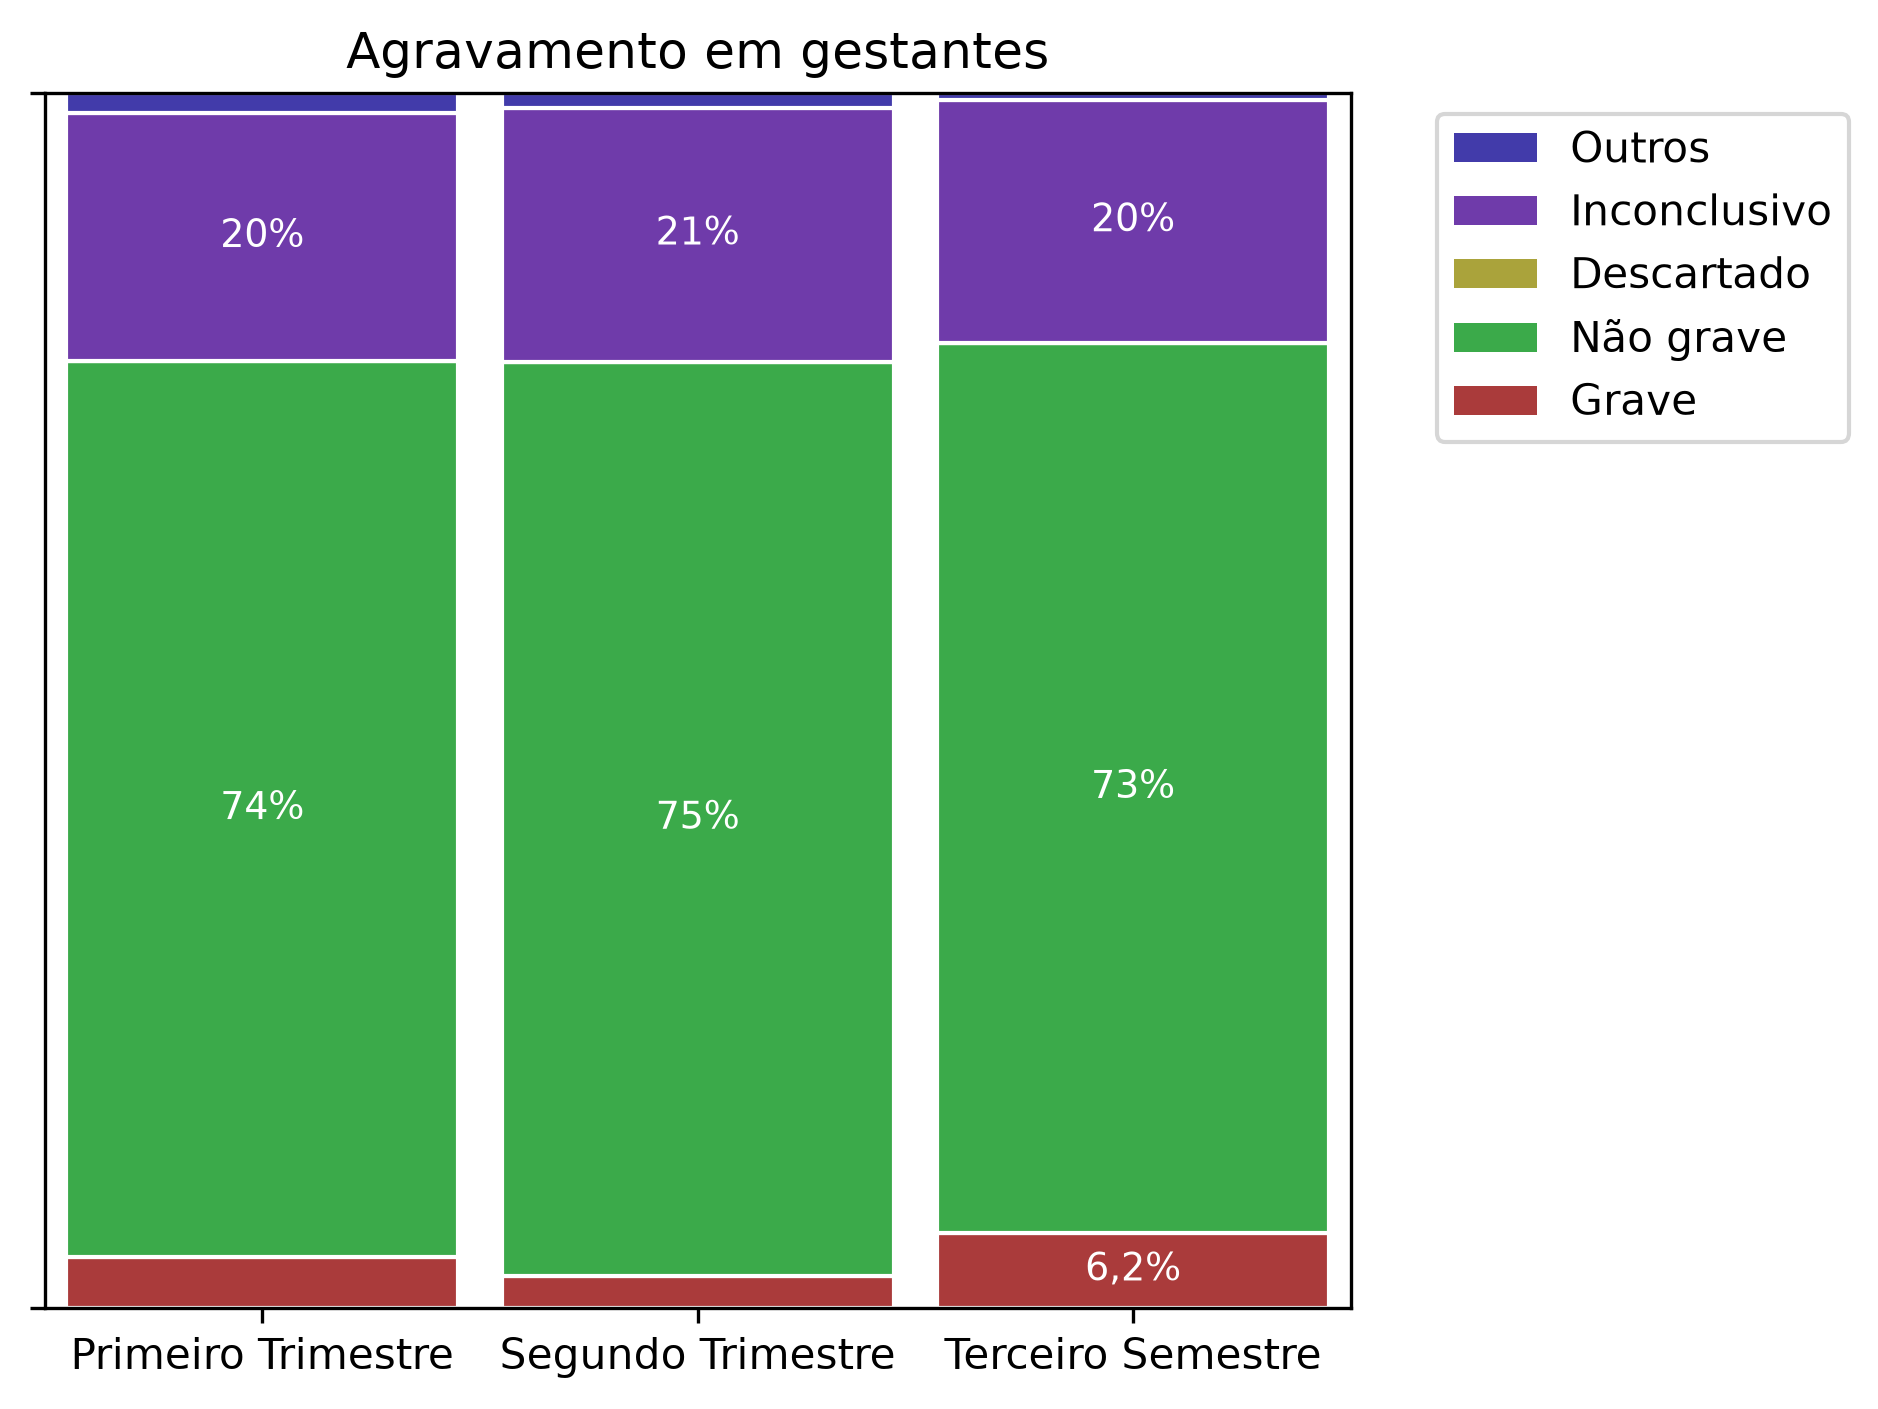
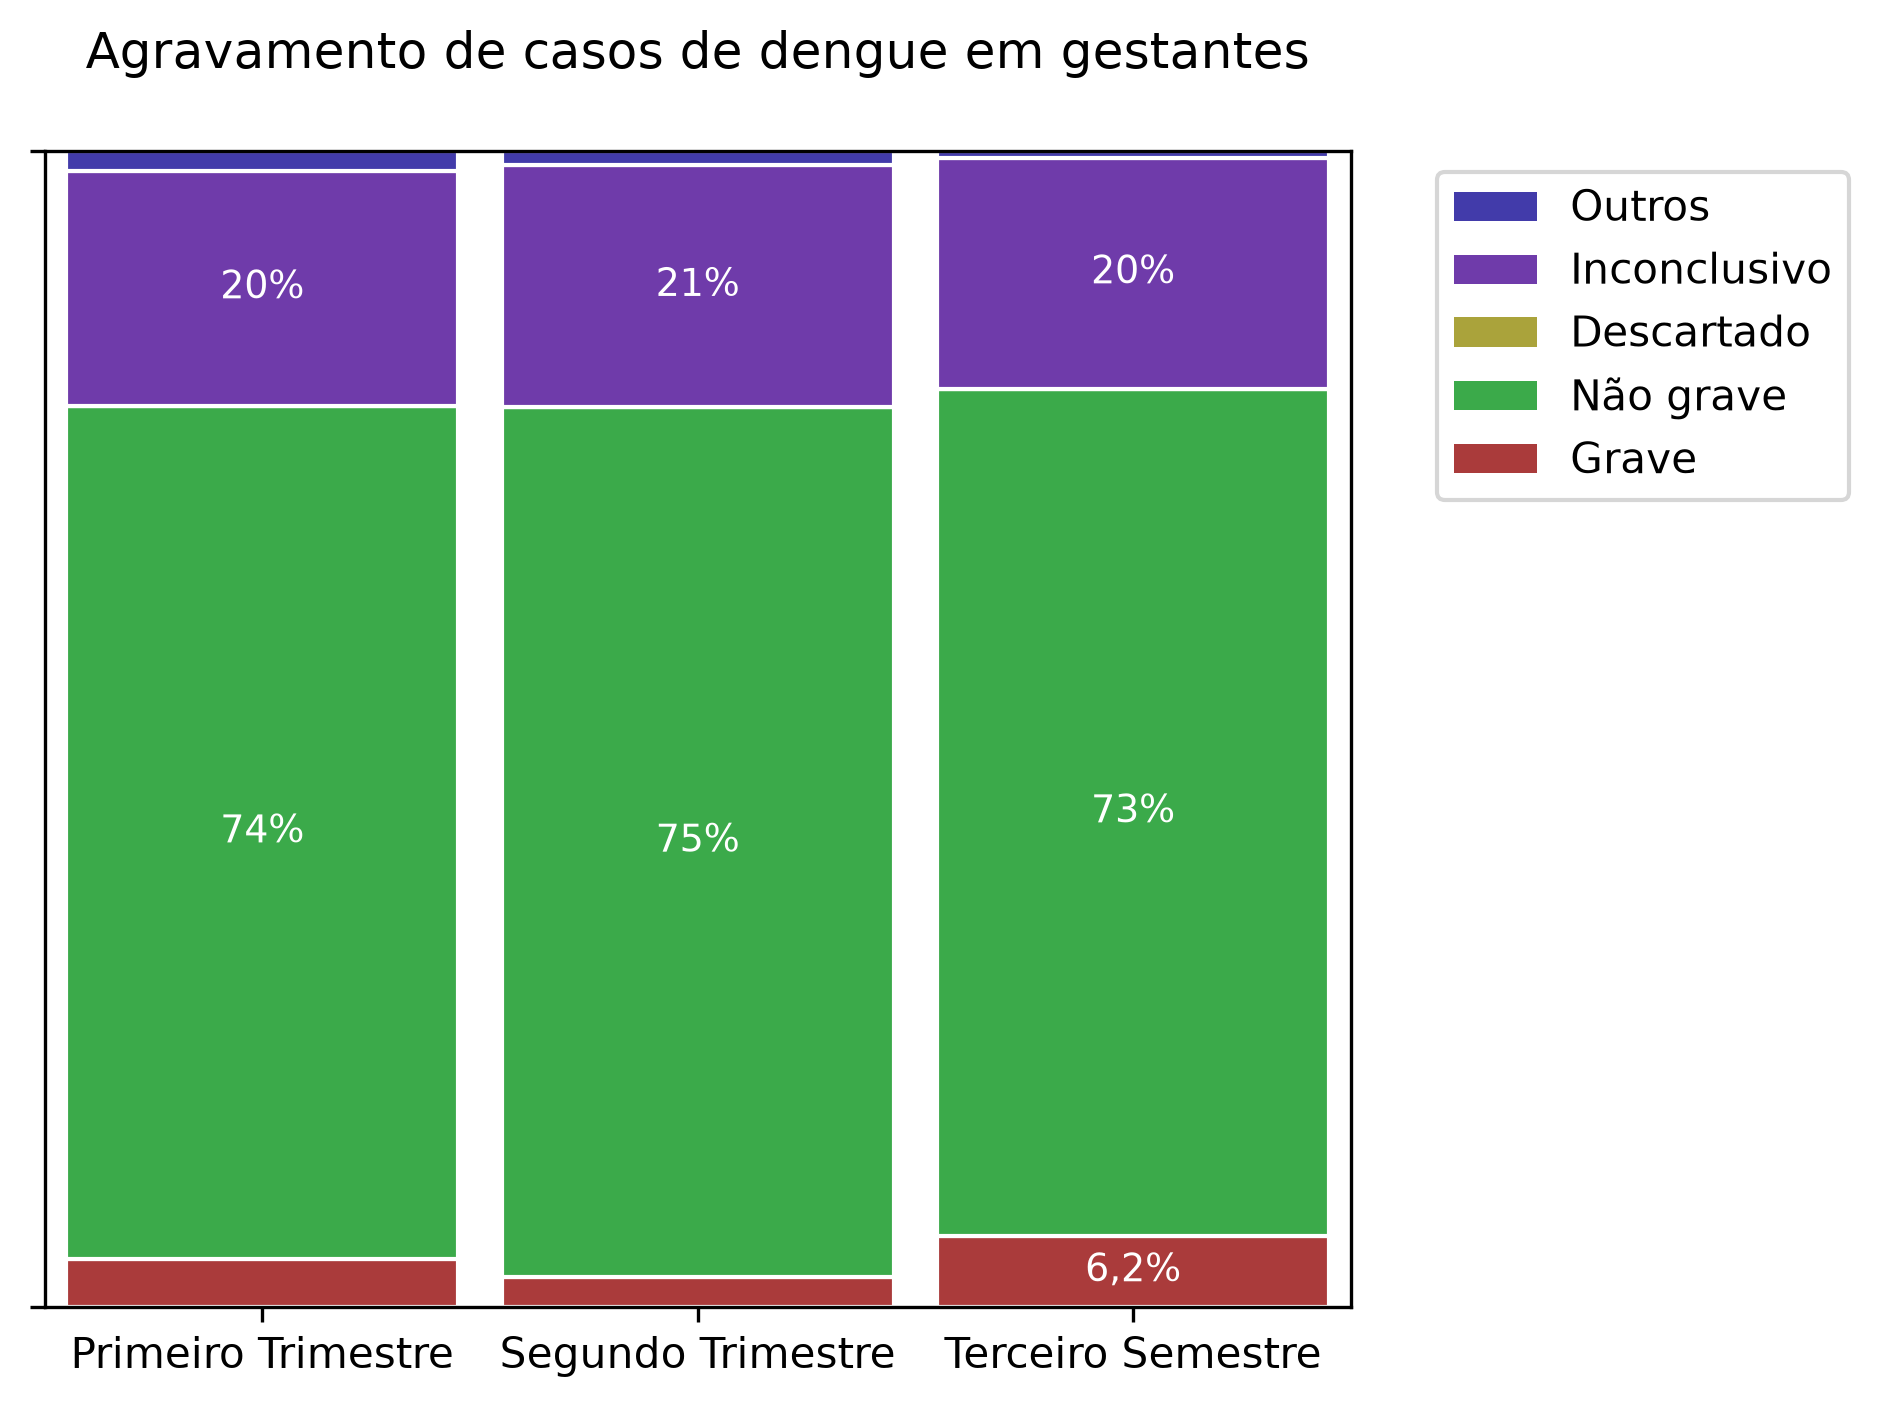
Mudanças nos títulos e eixos

diff --git a/visualizations.py b/visualizations.py
@@ -4,7 +4,7 @@ from matplotlib.patches import Patch
 from matplotlib.colors import to_rgb
 
 
-def diverging_bar_chart(titulo, dados_categoria_a, rotulo_a, cor_a, contagem_total_a, dados_categoria_b, rotulo_b, cor_b, contagem_total_b, intervalos, categorias, rotulo_eixo_y, arquivo = None):
+def diverging_bar_chart(titulo, dados_categoria_a, rotulo_a, cor_a, contagem_total_a, dados_categoria_b, rotulo_b, cor_b, contagem_total_b, categorias, arquivo = None):
 
     maior_valor = min(dados_categoria_a + dados_categoria_b)
     menor_valor = max(dados_categoria_a + dados_categoria_b)
@@ -20,14 +20,14 @@ def diverging_bar_chart(titulo, dados_categoria_a, rotulo_a, cor_a, contagem_tot
     ax.barh(range(0,len(dados_categoria_b)), novos_dados_categoria_b, left = nova_origem + 0.5, height = 0.7, color = cor_b, label = rotulo_b, zorder = 2)
 
 
-    particoes = 100 / intervalos
+    particoes = 100 / 4
     porcentagens = []
     valor_atual = -100
     while valor_atual <= 100:
         porcentagens.append(valor_atual)
         valor_atual = valor_atual + particoes
 
-    xticks_labels = list(map(lambda x: abs(x), porcentagens))
+    xticks_labels = list(map(lambda x: str(int(abs(x))) + "%", porcentagens))
     xticks = list(map(lambda x: nova_origem + x, porcentagens))
 
     ax.set_xticks(xticks)
@@ -41,12 +41,9 @@ def diverging_bar_chart(titulo, dados_categoria_a, rotulo_a, cor_a, contagem_tot
     for i in range(0, qtd_linhas):
         ax.plot([xticks[0], xticks[-1]], [i,i], dashes=[20, 10], linewidth = 0.25, color = "#6B6B6B", zorder = 1)
 
-
-    ax.set_ylabel(rotulo_eixo_y, ha='center', va='center')
-
     ax.legend()
 
-    plt.title(titulo)
+    ax.set_title(titulo, pad=20)
 
     if arquivo is not None:
         fig.savefig(arquivo, dpi = 300, bbox_inches = 'tight')
@@ -57,13 +54,11 @@ def diverging_bar_chart(titulo, dados_categoria_a, rotulo_a, cor_a, contagem_tot
 # =-=-=-=-=-=-=-=-=-=-=-=-=-=-=-=-=-=-=-=-=-=-=-=-=-=-=-= #
 
 
-def mapa_de_calor(grupos, categorias, valores, totais, cor_max, cor_min, arquivo = None):
+def mapa_de_calor(titulo, rotulo_grupos, grupos, categorias, valores, totais, cor_max, cor_min, arquivo = None):
     gradiente = LinearSegmentedColormap.from_list(
         "meu_gradiente",
         [cor_min, cor_max]
     )
-
-    maior_valor = max(valor for linha in valores for valor in linha)
 
     fig, ax = plt.subplots()
 
@@ -77,6 +72,16 @@ def mapa_de_calor(grupos, categorias, valores, totais, cor_max, cor_min, arquivo
 
     ax.set_yticks(list(map(lambda x: x + 0.5, list(range(0, len(categorias))))))
     ax.set_yticklabels(categorias, rotation=0, ha='right')
+
+    ax.set_xlabel(rotulo_grupos, ha='left', va='center')
+    ax.set_xlabel('Idades')
+
+    # Posiciona o rótulo à direita, abaixo do eixo x
+    ax.xaxis.set_label_coords(1.0, -0.1)
+    ax.xaxis.label.set_horizontalalignment('right')
+
+    ax.set_title(titulo, pad=20)
+    
 
     if arquivo is not None:
         fig.savefig(arquivo, dpi = 300, bbox_inches = 'tight')
@@ -224,14 +229,14 @@ def mosaic_plot(titulo, dados, grupos, categorias, cores, tamanho_fonte = 10, fo
 
         ultimo_y = y_texto
 
+    ax.set_title(titulo, pad=20)
+
     ax.set_xticks(posicoes_grupos)
     ax.set_xticklabels(grupos)
 
     ax.set_yticks([])
 
     ax.legend(loc = 'center left', bbox_to_anchor = (1.09 if fora else 1.01, 0.5), frameon = False)
-
-    plt.title(titulo)
 
     if arquivo is not None:
         fig.savefig(arquivo, dpi = 300, bbox_inches = 'tight')
@@ -283,7 +288,7 @@ def barras_empilhadas(titulo, grupos, dados_grupo, descrição, cores, tamanho_f
         legenda.append(Patch(facecolor = cores[j], label = descrição[j]))
 
     plt.legend(handles = legenda[::-1], bbox_to_anchor = (1.05, 1), loc = 'upper left')
-    plt.title(titulo)
+    ax.set_title(titulo, pad=20)
 
     fig.tight_layout()
 

diff --git a/main.py b/main.py
@@ -31,7 +31,7 @@ total_masc = masc["total"]
 
 sintomas = ['Febre', 'Mialgia', 'Cefaleia', 'Exantema', 'Vômito', 'Náusea', 'Dor nas costas', 'Conjuntivite', 'Artrite', 'Artralgia', 'Petéquias', 'Leucopenia', 'Prova do laço', 'Dor retro-orbital']
 
-diverging_bar_chart('Variação nos sintomas de acordo com o sexo', dados_masc, 'Masculino', '#8487e8', total_masc, dados_fem, 'Feminino', '#e884cd', total_fem, 4, sintomas, 'Sintomas', arquivo = 'output/diverging_bar_chart.png')
+diverging_bar_chart('Variação nos sintomas de dengue entre homens e mulheres', dados_masc, 'Masculino', '#8487e8', total_masc, dados_fem, 'Feminino', '#e884cd', total_fem, sintomas, arquivo = 'output/diverging_bar_chart.png')
 
     # =-=-=-=-=-=-=-=-=-=-=-=-=-=-=-=-=-=-=-=-=-=-=-=-=-=-=-= #
 
@@ -48,7 +48,7 @@ for i in range(0, len(sint_idade)):
 cor_min = "#AAE7FA"
 cor_max = "#297991"
 
-mapa_de_calor(grupos, sintomas, dados, totais, cor_max, cor_min, arquivo = 'output/mapa_de_calor.png')
+mapa_de_calor("Variação nos sintomas de dengue em diferentes idades", "Idades" ,grupos, sintomas, dados, totais, cor_max, cor_min, arquivo = 'output/mapa_de_calor.png')
 
     # =-=-=-=-=-=-=-=-=-=-=-=-=-=-=-=-=-=-=-=-=-=-=-=-=-=-=-= #
 
@@ -110,7 +110,7 @@ for i in grav_diabetes:
 dados = [classificacao_diabetes, classificacao_nao_diabetes]
 cores = ["#aa3b3b", "#3baa4a", "#aaa33b", "#6f3baa", "#423baa"]
 
-mosaic_plot("Agravamento em casos com diabetes", dados, ['Diabéticos', 'Não diabéticos'], ["Grave", "Não grave", "descartado", "Inconclusivo", "outros"], cores, arquivo = 'output/mosaic_plot.png')
+mosaic_plot("Agravamento de casos de dengue em pessoas com diabetes", dados, ['Diabéticos', 'Não diabéticos'], ["Grave", "Não grave", "descartado", "Inconclusivo", "outros"], cores, arquivo = 'output/mosaic_plot.png')
 
     # =-=-=-=-=-=-=-=-=-=-=-=-=-=-=-=-=-=-=-=-=-=-=-=-=-=-=-= #
 
@@ -195,4 +195,4 @@ for gest in freq_gestantes:
 
 
 
-barras_empilhadas("Agravamento em gestantes", grupos, dados_gravidade, descricao, cores, arquivo = 'output/barras_empilhadas.png')
+barras_empilhadas("Agravamento de casos de dengue em gestantes", grupos, dados_gravidade, descricao, cores, arquivo = 'output/barras_empilhadas.png')
